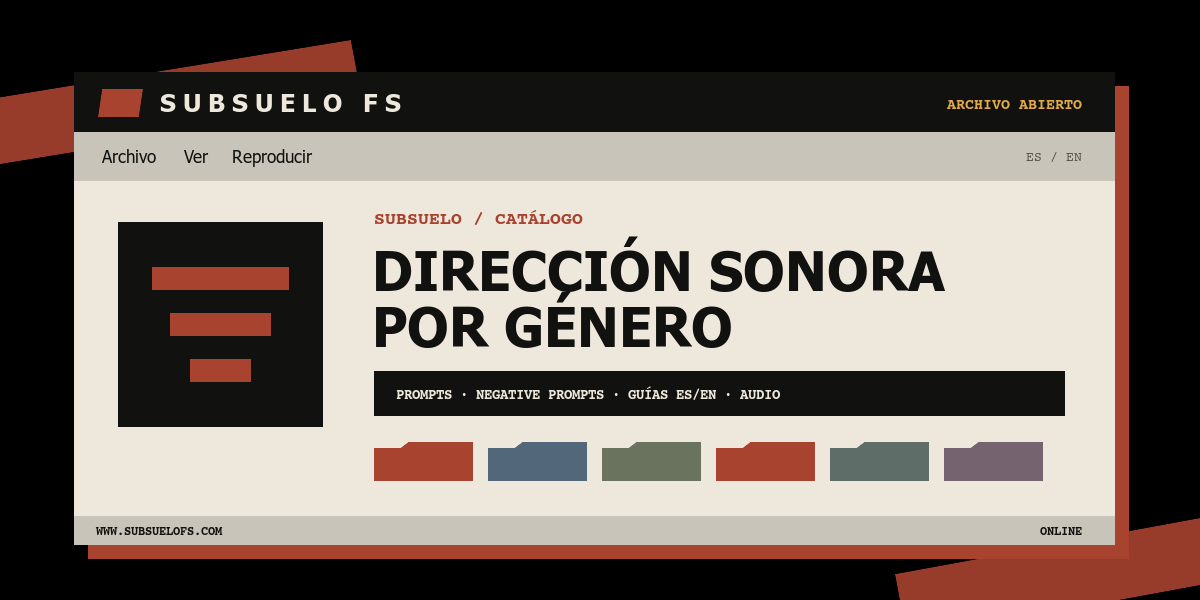
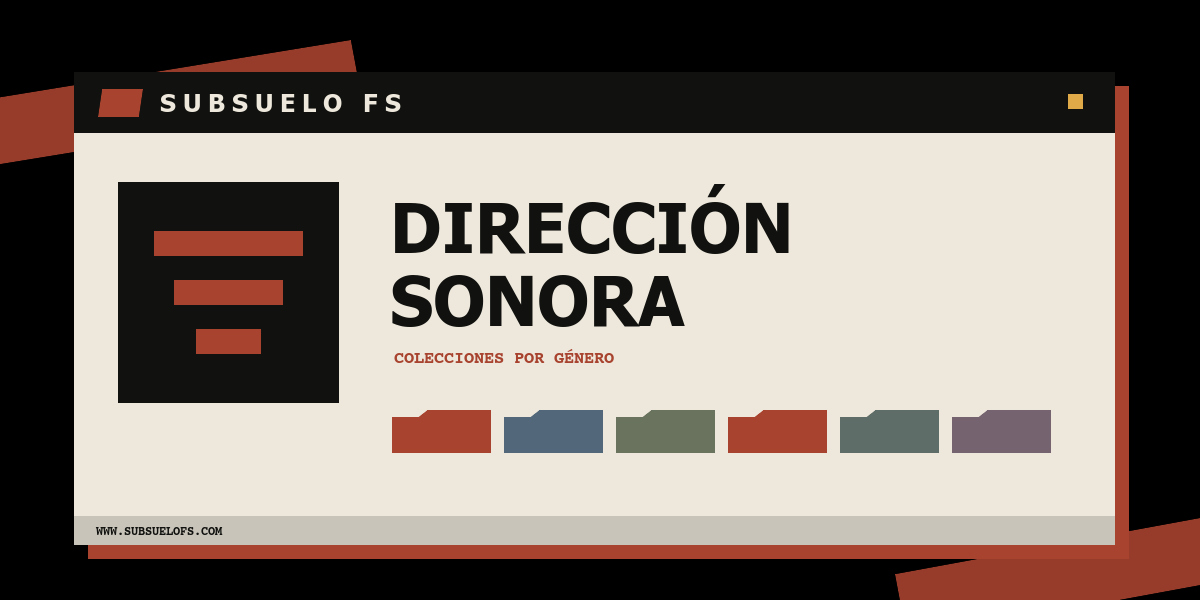
Simplify social link preview

Changed region(s): [[0.0617, 0.21, 0.9558, 0.81], [0.7708, 0.15, 0.925, 0.18], [0.8633, 0.87, 0.8942, 0.9]]

diff --git a/index.html b/index.html
@@ -13,8 +13,8 @@
     <meta property="og:site_name" content="SUBSUELO FS" />
     <meta property="og:title" content="SUBSUELO FS — Dirección sonora para instrumentales" />
     <meta property="og:description" content="Colecciones por género con prompts, negative prompts, guías ES/EN y referencias de audio." />
-    <meta property="og:image" content="https://subsuelofs.com/social-card.png?v=20260716-1" />
-    <meta property="og:image:secure_url" content="https://subsuelofs.com/social-card.png?v=20260716-1" />
+    <meta property="og:image" content="https://subsuelofs.com/social-card.png?v=20260716-2" />
+    <meta property="og:image:secure_url" content="https://subsuelofs.com/social-card.png?v=20260716-2" />
     <meta property="og:image:type" content="image/png" />
     <meta property="og:image:width" content="1200" />
     <meta property="og:image:height" content="600" />
@@ -24,7 +24,7 @@
     <meta name="twitter:creator" content="@subsuelofs" />
     <meta name="twitter:title" content="SUBSUELO FS — Dirección sonora para instrumentales" />
     <meta name="twitter:description" content="Colecciones por género con prompts, negative prompts, guías ES/EN y referencias de audio." />
-    <meta name="twitter:image" content="https://subsuelofs.com/social-card.png?v=20260716-1" />
+    <meta name="twitter:image" content="https://subsuelofs.com/social-card.png?v=20260716-2" />
     <meta name="twitter:image:alt" content="SUBSUELO FS: dirección sonora por género en un explorador de archivos." />
     <link rel="me" href="https://x.com/subsuelofs" />
     <title>SUBSUELO FS — Dirección sonora para instrumentales</title>